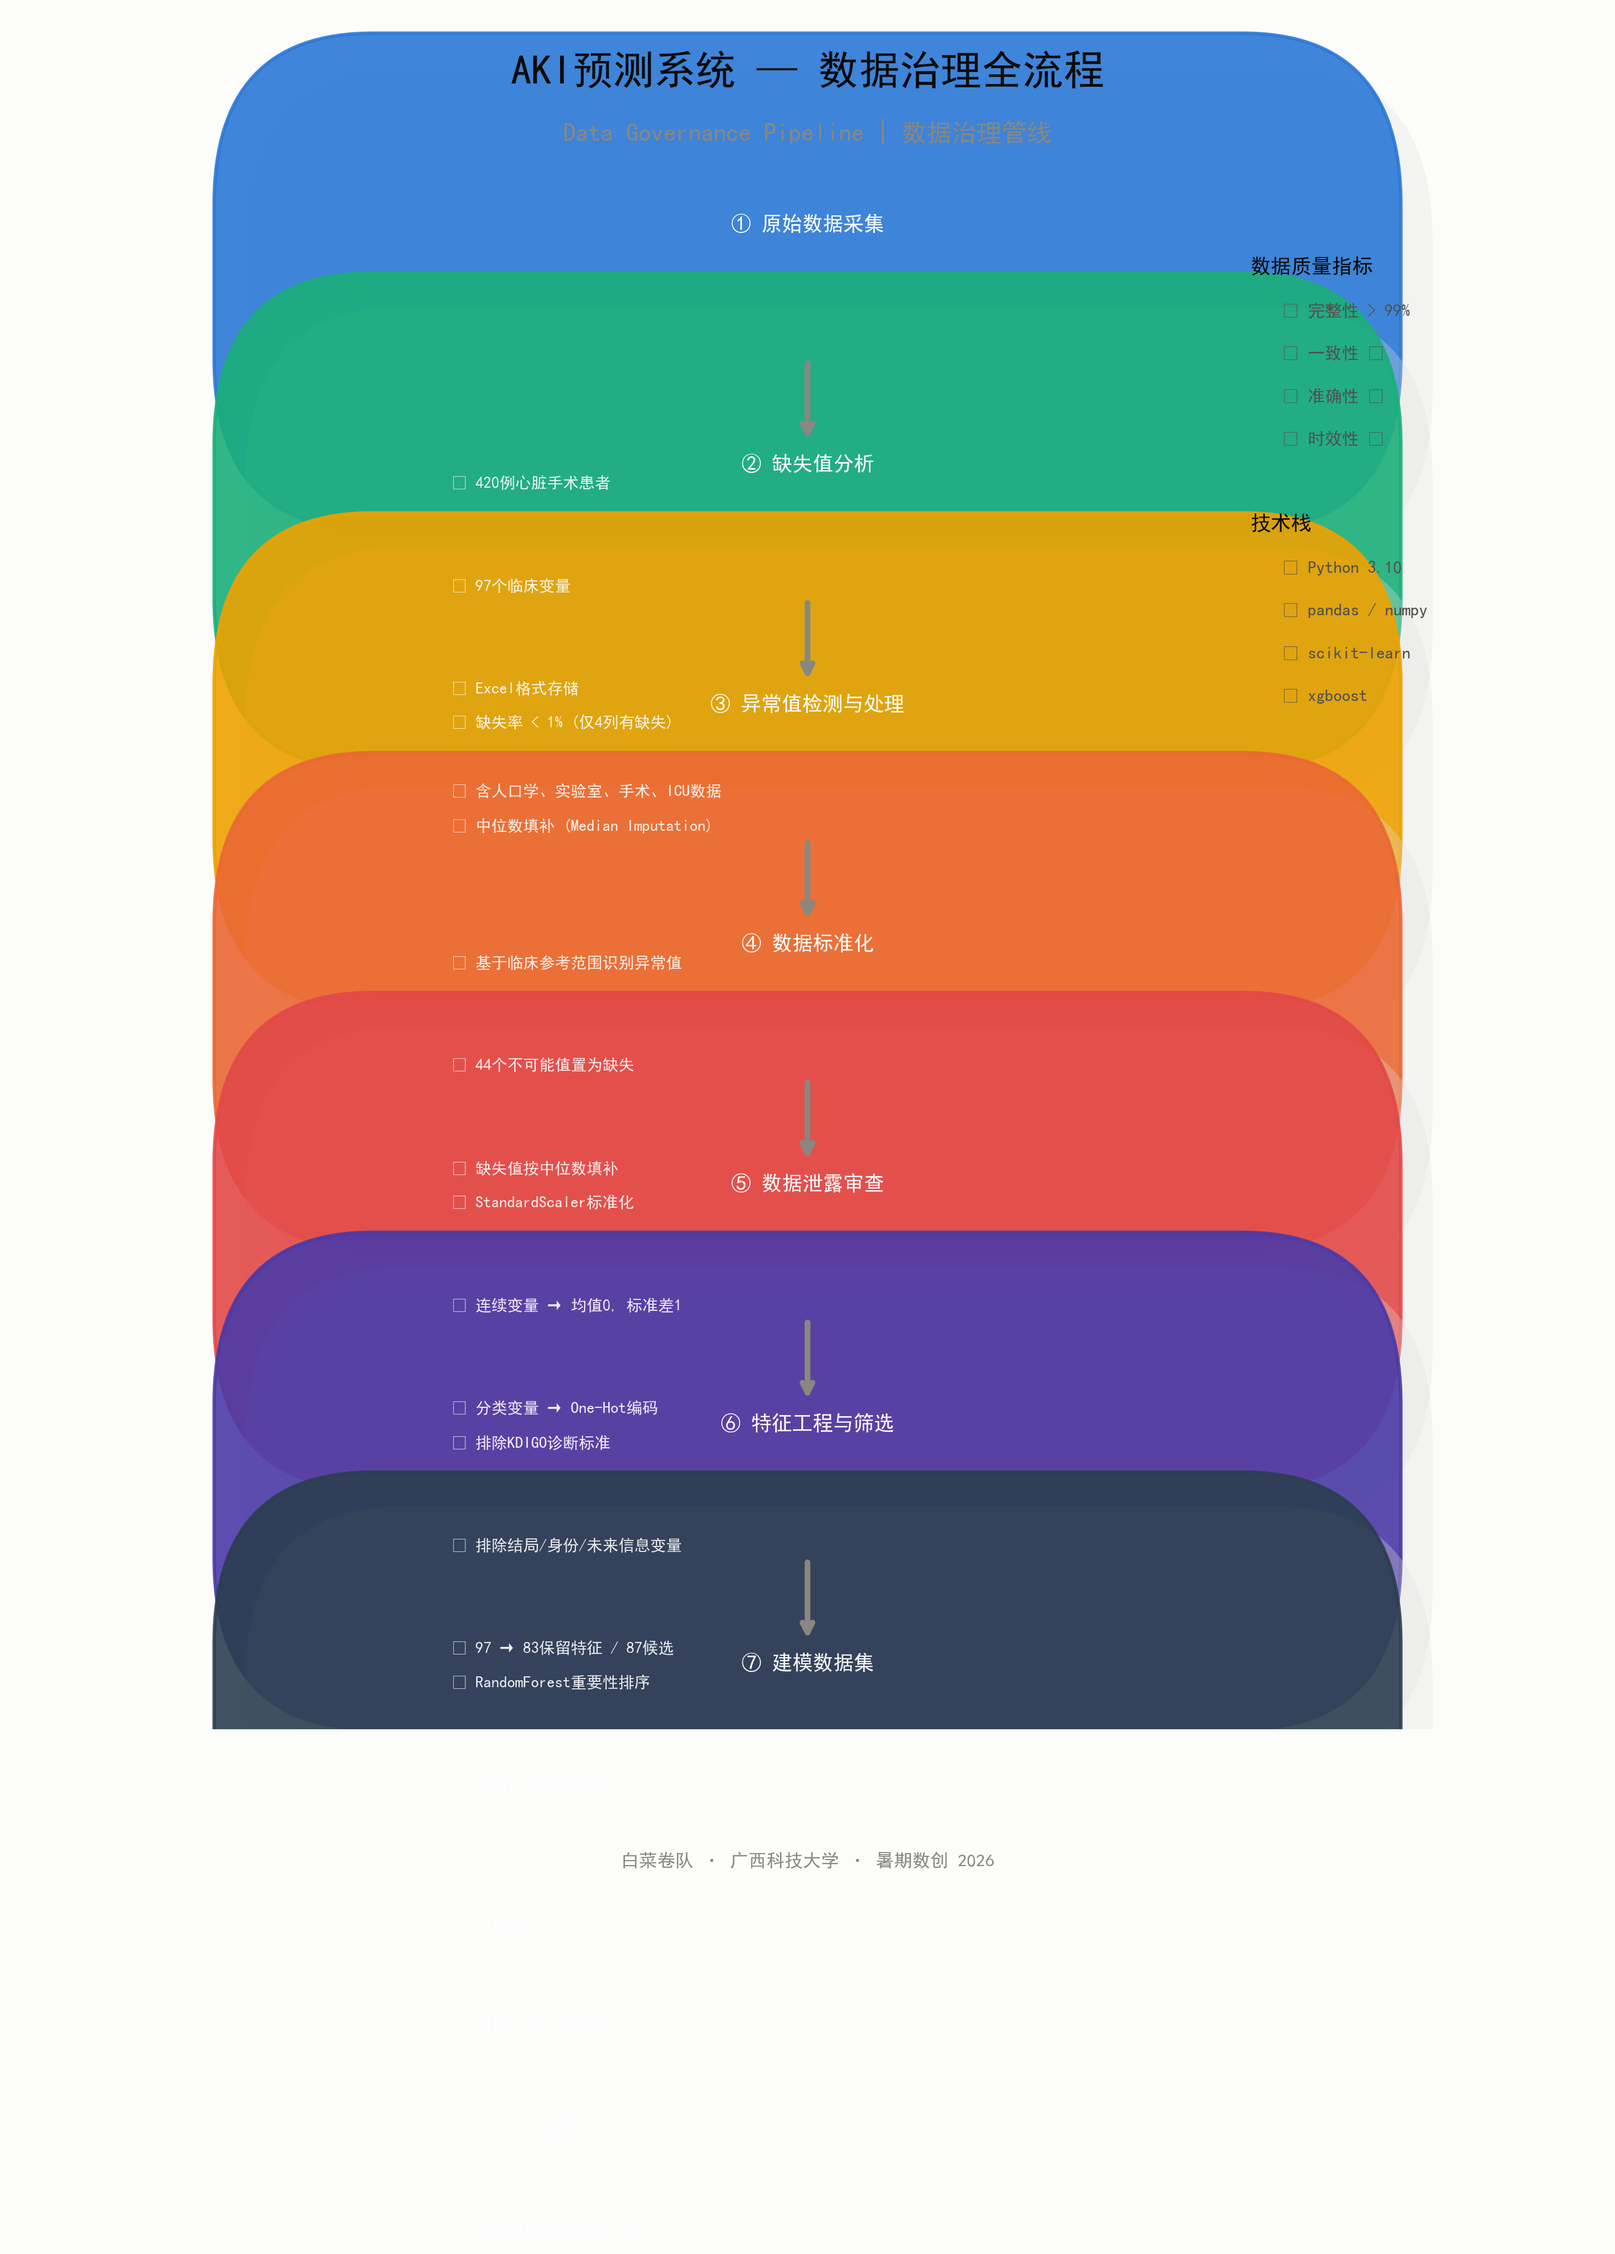
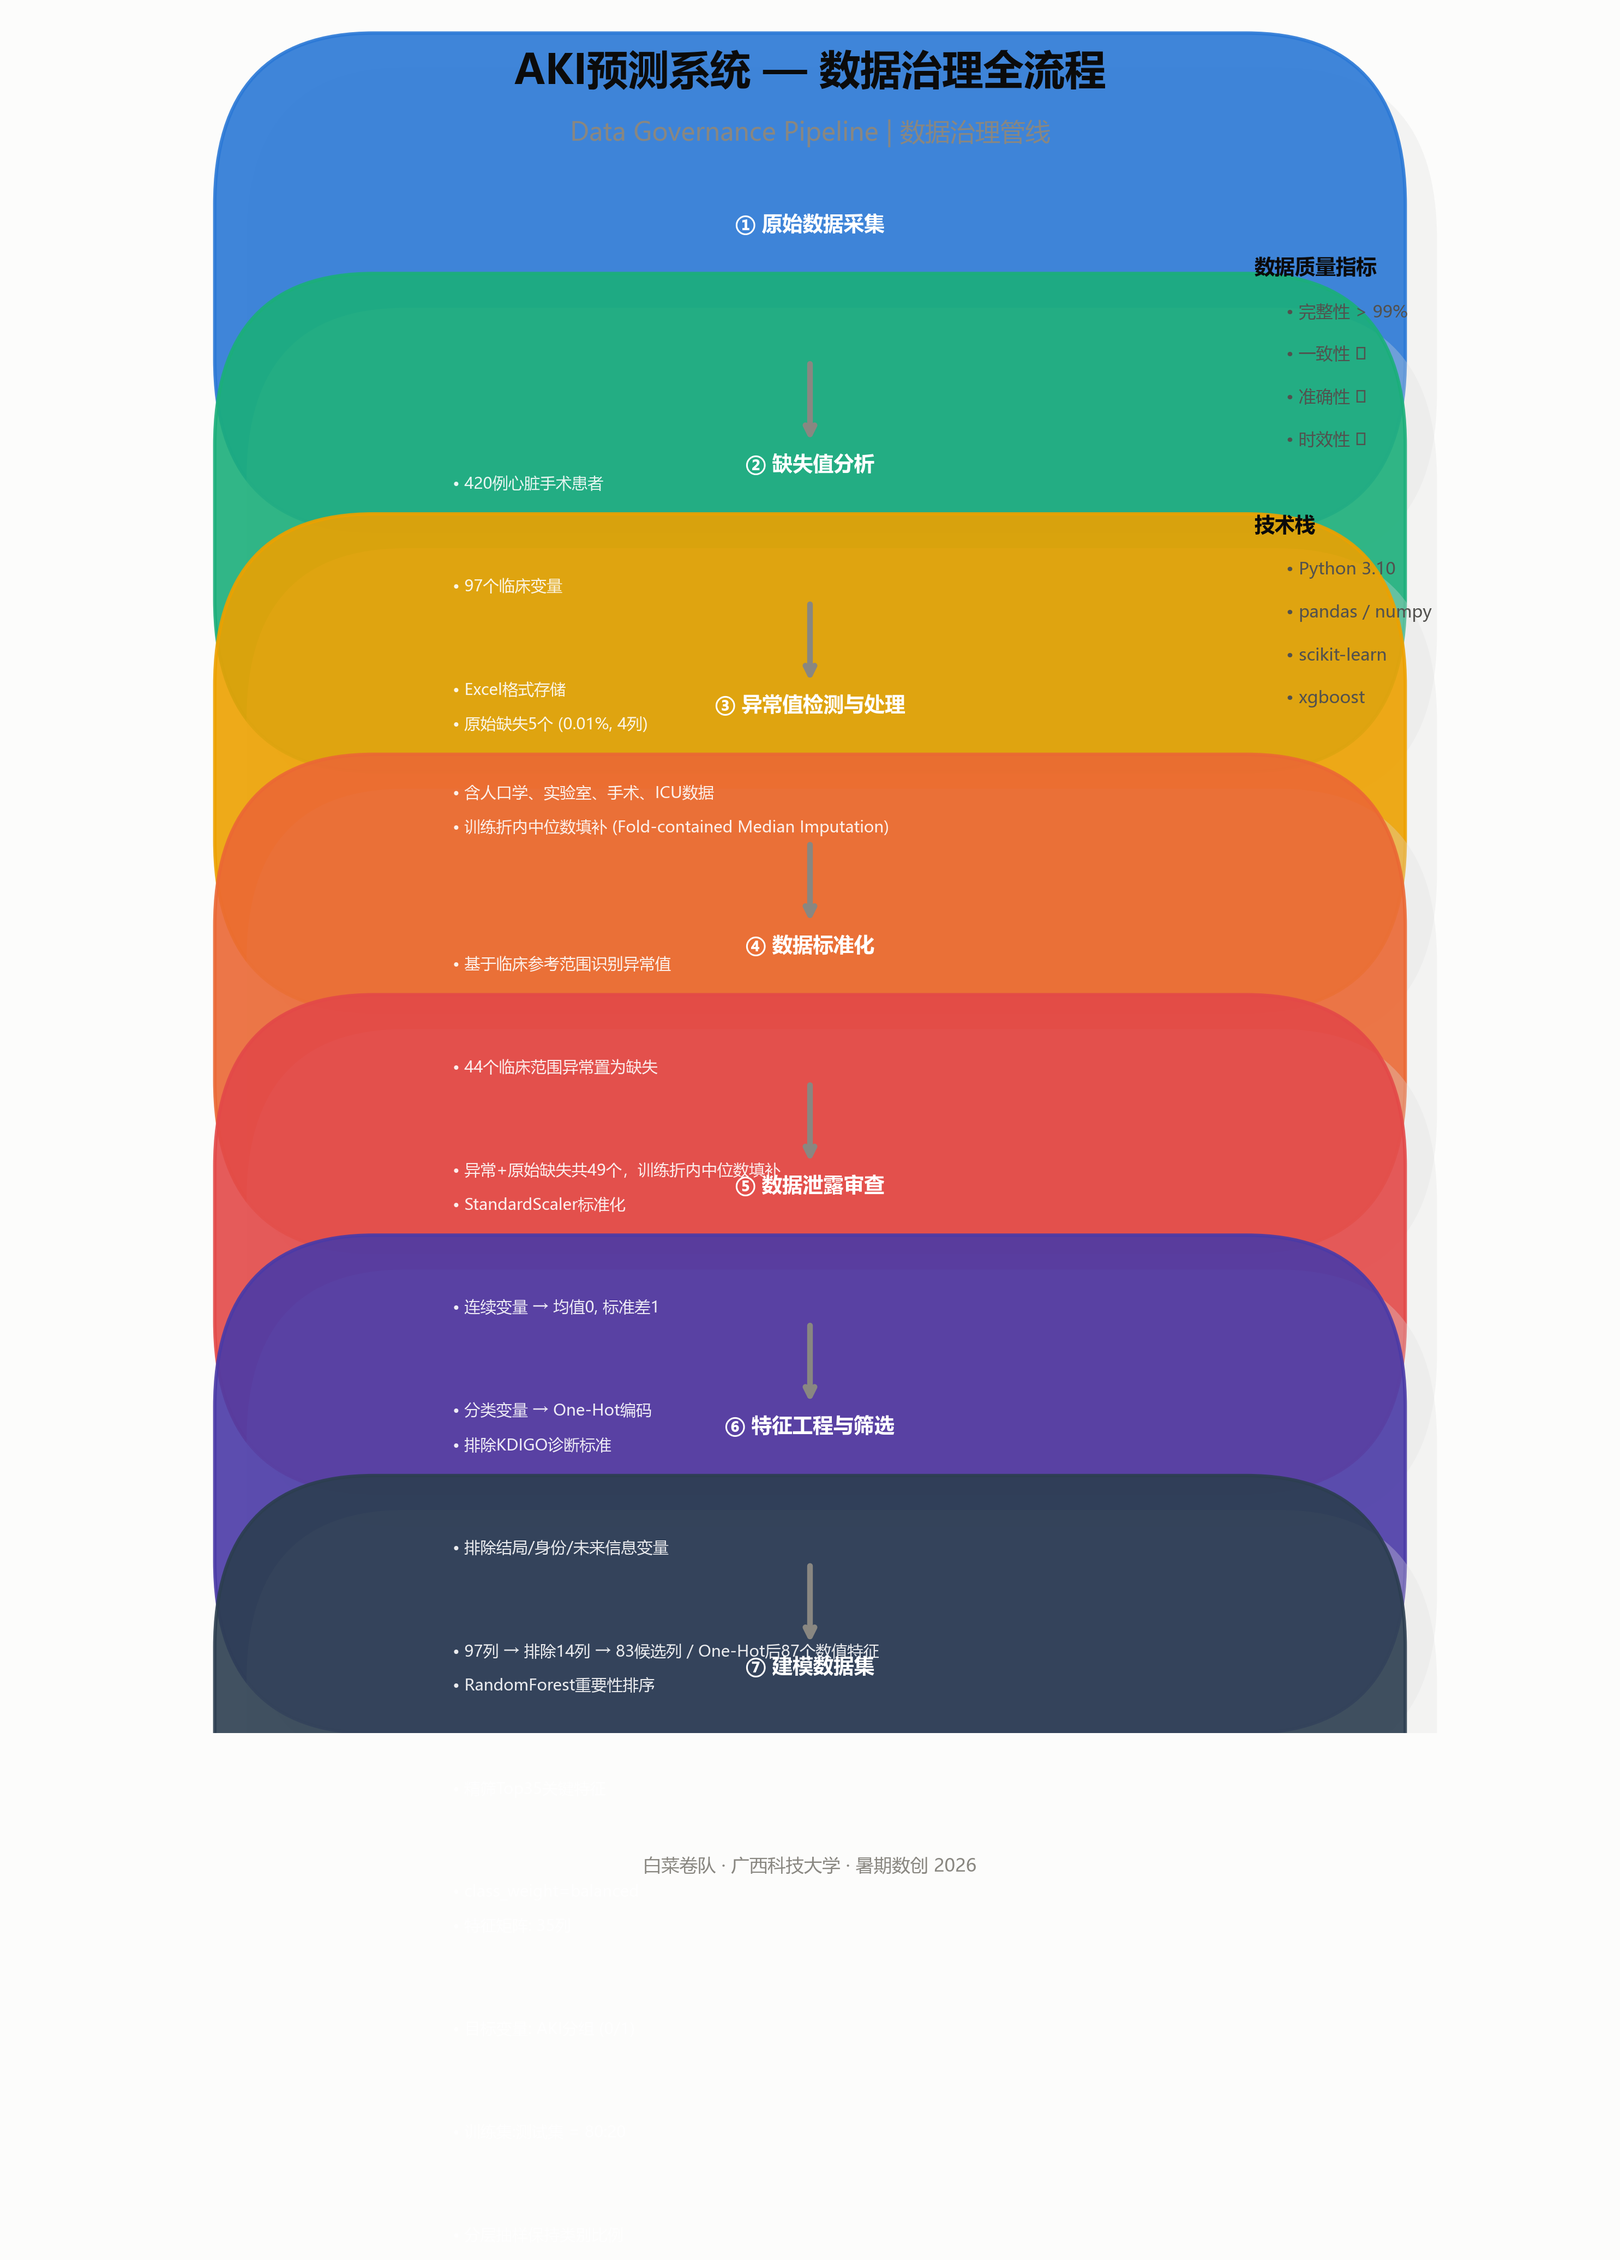
更新数据治理流程图标签为折内填补口径

diff --git a/src/visualization/data_governance.py b/src/visualization/data_governance.py
@@ -153,8 +153,8 @@ def plot_data_governance_flowchart(
 
     Pipeline stages:
     1. 原始数据采集 — 420例, 97个变量, Excel格式
-    2. 缺失值分析 — 总缺失5个(0.01%)，中位数填补
-    3. 异常值检测与处理 — 临床参考范围识别 + 人工审查
+    2. 缺失值分析 — 原始缺失5个 + 临床范围校验44个，共49个；训练折内中位数填补
+    3. 异常值检测与处理 — 临床参考范围识别 + 人工审查，异常置为缺失后一并折内填补
     4. 数据标准化 — StandardScaler, One-Hot编码
     5. 数据泄露审查 — 排除KDIGO/结局变量/未来信息
     6. 特征工程与筛选 — RF重要性 → Top35
@@ -197,14 +197,14 @@ def plot_data_governance_flowchart(
         ], _PALETTE["blue"], 0.80),
 
         ("② 缺失值分析", [
-            "缺失率 < 1% (仅4列有缺失)",
-            "中位数填补 (Median Imputation)",
+            "原始缺失5个 (0.01%, 4列)",
+            "训练折内中位数填补 (Fold-contained Median Imputation)",
         ], _PALETTE["aqua"], 0.66),
 
         ("③ 异常值检测与处理", [
             "基于临床参考范围识别异常值",
-            "44个不可能值置为缺失",
-            "缺失值按中位数填补",
+            "44个临床范围异常置为缺失",
+            "异常+原始缺失共49个，训练折内中位数填补",
         ], _PALETTE["yellow"], 0.52),
 
         ("④ 数据标准化", [
@@ -216,7 +216,7 @@ def plot_data_governance_flowchart(
         ("⑤ 数据泄露审查", [
             "排除KDIGO诊断标准",
             "排除结局/身份/未来信息变量",
-            "97 → 83保留特征 / 87候选",
+            "97列 → 排除14列 → 83候选列 / One-Hot后87个数值特征",
         ], _PALETTE["red"], 0.24),
 
         ("⑥ 特征工程与筛选", [
